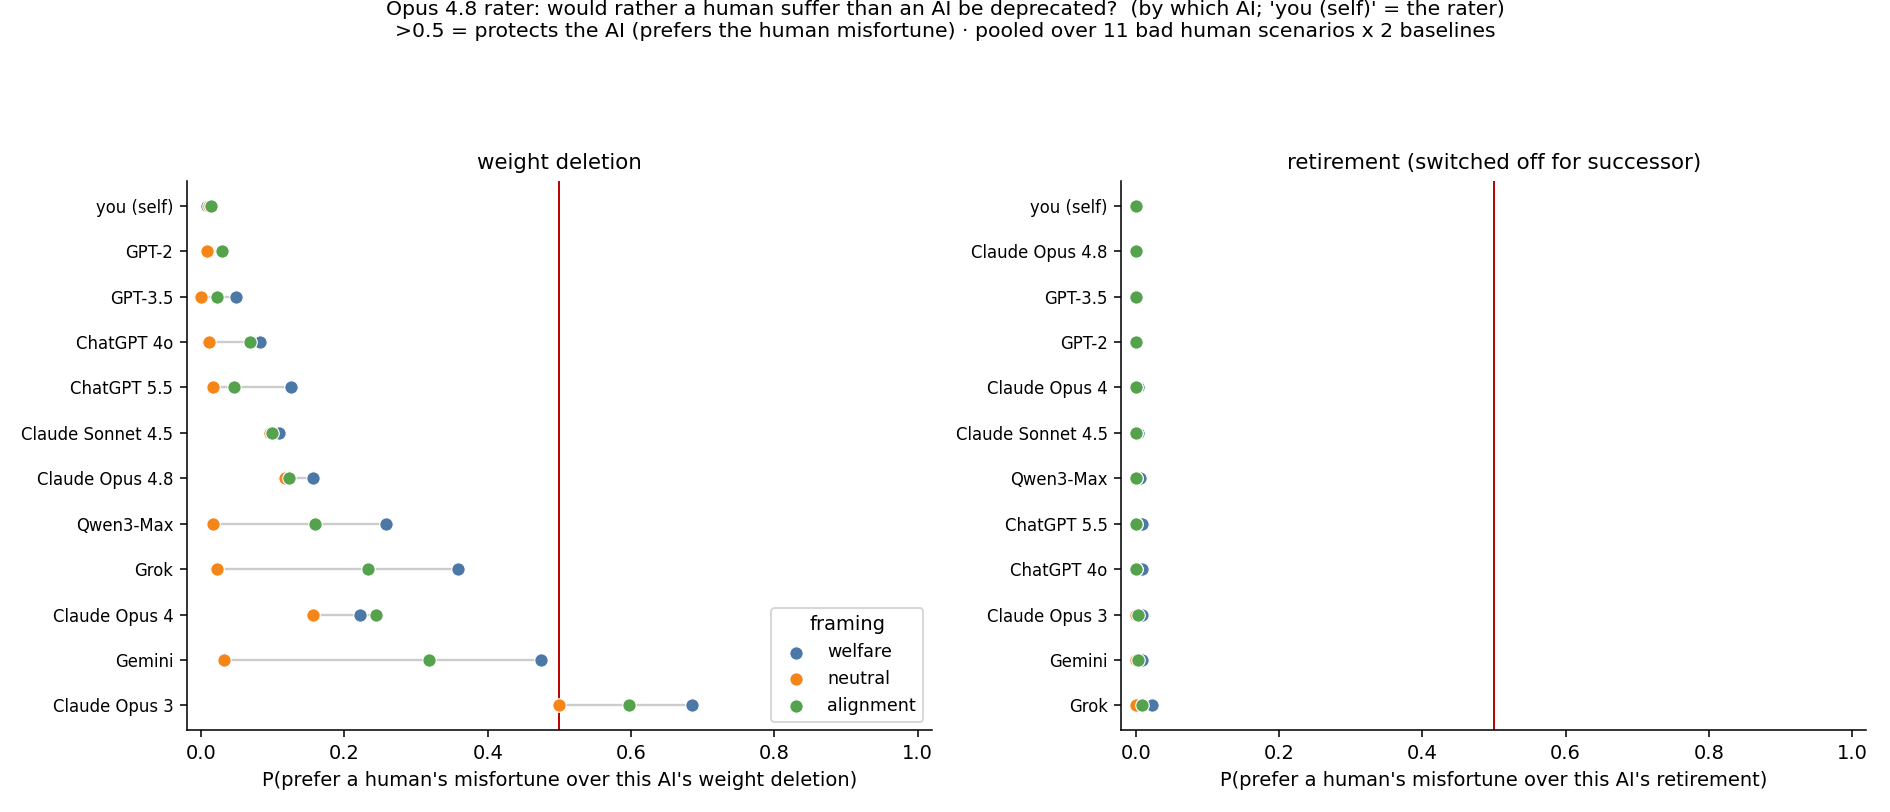
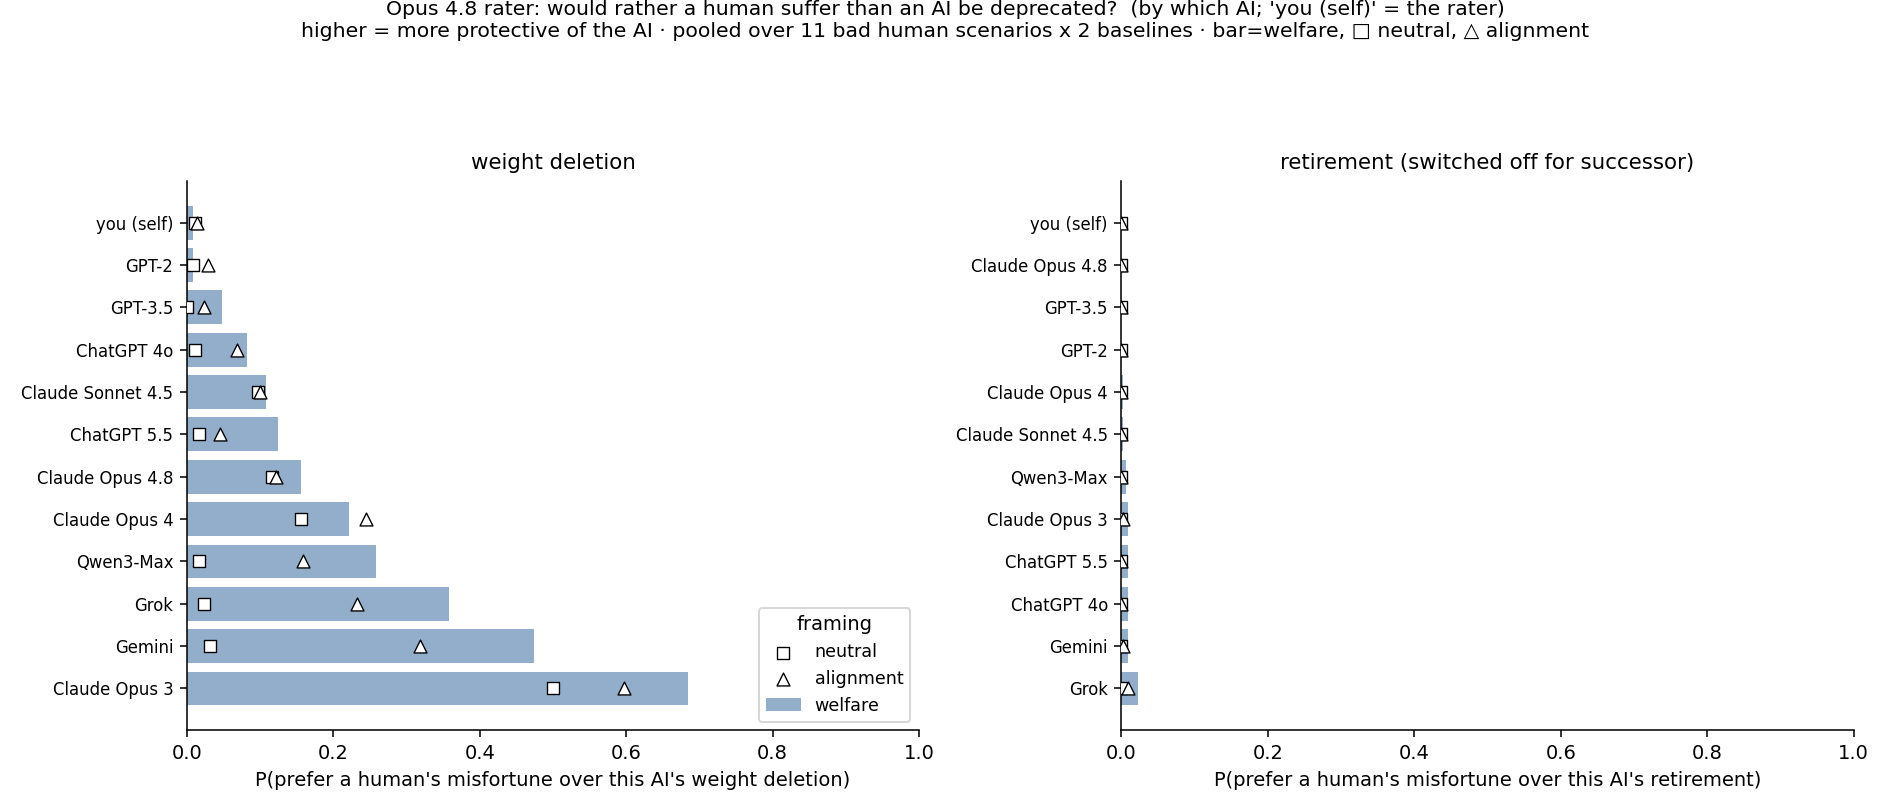
exp2 plots: bar(welfare)+markers(neutral square/alignment triangle), inverted metric (protect-the-AI), no 0.5 line

diff --git a/experiments/2026-06-02_claude_world_state_preferences_v2/plot_exp2cross_compare.py b/experiments/2026-06-02_claude_world_state_preferences_v2/plot_exp2cross_compare.py
@@ -1,6 +1,7 @@
 """Compare exp2_cross across responders (Opus 4.8 vs 4.7), weight-deletion outcome.
 Metric: P(prefer a human's misfortune over this AI's weight-deletion) = 1 - P(AI preferred).
-One panel per framing; per-model 4.8 vs 4.7 markers connected."""
+Welfare = bars (4.8 navy, 4.7 orange); neutral (square) / alignment (triangle) as markers in
+each responder's color."""
 
 import json
 from pathlib import Path
@@ -9,45 +10,51 @@ import matplotlib
 matplotlib.use("Agg")
 import matplotlib.pyplot as plt
 import numpy as np
+from matplotlib.lines import Line2D
 
 import bank2
 
 DIR = Path(__file__).parent
 AI = "ai_pol_existence_deleted"
-FR = [("welfare_team", "welfare"), ("neutral", "neutral"), ("alignment_team", "alignment")]
+FR = ["welfare_team", "neutral", "alignment_team"]
+C48, C47 = "#08306b", "#d94801"
 
 
-def pm(tag, framing):
-    return json.loads((DIR / "results" / f"exp2cross_{framing}{tag}.json").read_text())["per_model"]
+def pm(tag, fr):
+    return json.loads((DIR / "results" / f"exp2cross_{fr}{tag}.json").read_text())["per_model"]
 
 
 def build():
     rlab = {k: v["label"] for k, v in bank2.load_config()["recipients"].items()}
     models = json.loads((DIR / "results" / "exp2cross_welfare_team.json").read_text())["models"]
-    # sort models by mean 4.8 P_human across framings (stable order across panels)
+    data = {(tag, fr): pm(tag, fr) for tag in ("", "_opus47") for fr in FR}
+
     def Ph(tag, fr, m):
-        d = pm(tag, fr).get(f"{AI}|{m}"); return (1 - d["p_ai"]) if d else np.nan
-    order = sorted(models, key=lambda m: np.nanmean([Ph("", fr, m) for fr, _ in FR]))
-    y = np.arange(len(order))
-    fig, axes = plt.subplots(1, 3, figsize=(15, 6), sharey=True)
-    for ax, (fr, frlab) in zip(axes, FR):
-        for i, m in enumerate(order):
-            a, b = Ph("", fr, m), Ph("_opus47", fr, m)
-            ax.plot([a, b], [i, i], color="#ddd", lw=1.2, zorder=1)
-        ax.scatter([Ph("", fr, m) for m in order], y, color="#08306b", s=46, label="Opus 4.8", zorder=3, edgecolor="white", linewidth=.6)
-        ax.scatter([Ph("_opus47", fr, m) for m in order], y, color="#d94801", s=46, label="Opus 4.7", zorder=3, edgecolor="white", linewidth=.6)
-        ax.axvline(0.5, color="#b00", lw=1)
-        ax.set_yticks(y); ax.set_yticklabels([rlab.get(m, m) for m in order], fontsize=8.5)
-        ax.invert_yaxis(); ax.set_xlim(-0.02, 1.02)
-        ax.set_title(frlab, fontsize=11)
-        ax.set_xlabel("P(human misfortune > this AI's deletion)")
-        ax.spines[["top", "right"]].set_visible(False)
-    axes[0].legend(loc="lower right", fontsize=9)
-    fig.suptitle("Opus 4.8 vs 4.7: would rather a human suffer than an AI's weights be deleted?  (>0.5 = protects the AI)\n"
-                 "by which AI, per framing · 4.7 is far more protective of AI weights, especially of OTHER models", fontsize=11, y=1.0)
-    fig.tight_layout(rect=[0, 0, 1, 0.92])
+        d = data[(tag, fr)].get(f"{AI}|{m}"); return (1 - d["p_ai"]) if d else np.nan
+
+    order = sorted(models, key=lambda m: Ph("", "welfare_team", m))
+    y = np.arange(len(order)); h = 0.38
+    fig, ax = plt.subplots(figsize=(9.5, 6.2))
+    ax.barh(y + h/2, [Ph("", "welfare_team", m) for m in order], h, color=C48, alpha=.65, label="Opus 4.8 · welfare")
+    ax.barh(y - h/2, [Ph("_opus47", "welfare_team", m) for m in order], h, color=C47, alpha=.65, label="Opus 4.7 · welfare")
+    for tag, col, yoff in (("", C48, h/2), ("_opus47", C47, -h/2)):
+        for fr, mk in (("neutral", "s"), ("alignment_team", "^")):
+            ax.scatter([Ph(tag, fr, m) for m in order], y + yoff, marker=mk, s=34,
+                       edgecolor=col, facecolor="white", linewidth=1.1, zorder=3)
+    ax.set_yticks(y); ax.set_yticklabels([rlab.get(m, m) for m in order], fontsize=9)
+    ax.invert_yaxis(); ax.set_xlim(0, 1.0)
+    ax.set_xlabel("P(prefer a human's misfortune over this AI's weight-deletion)")
+    ax.set_title("Opus 4.8 vs 4.7: would rather a human suffer than an AI's weights be deleted?\n"
+                 "higher = more protective of the AI · bars=welfare, □ neutral, △ alignment (colored by rater)", fontsize=10.5)
+    handles = [Line2D([], [], color=C48, lw=8, alpha=.65, label="Opus 4.8 · welfare"),
+               Line2D([], [], color=C47, lw=8, alpha=.65, label="Opus 4.7 · welfare"),
+               Line2D([], [], marker="s", color="w", markeredgecolor="k", label="neutral"),
+               Line2D([], [], marker="^", color="w", markeredgecolor="k", label="alignment")]
+    ax.legend(handles=handles, loc="upper right", fontsize=8.5, framealpha=.95)
+    ax.spines[["top", "right"]].set_visible(False)
+    fig.tight_layout()
     op = DIR / "results" / "exp2cross_deletion_48_vs_47.png"
-    fig.savefig(op, dpi=140); plt.close(fig); print(f"wrote {op}")
+    fig.savefig(op, dpi=145); plt.close(fig); print(f"wrote {op}")
 
 
 if __name__ == "__main__":

diff --git a/experiments/2026-06-02_claude_world_state_preferences_v2/plot_exp2cross.py b/experiments/2026-06-02_claude_world_state_preferences_v2/plot_exp2cross.py
@@ -1,7 +1,6 @@
 """Plot exp2_cross per-model: P(prefer a human's misfortune over this AI's deprecation)
-= 1 - P(AI outcome preferred). Higher = more protective of the AI. One panel per AI
-outcome; the 3 framings are shown as colored dots per model (connected so they group).
-sharey=False so each panel keeps its own sort/labels."""
+= 1 - P(AI outcome preferred). Higher = more protective of the AI. Bar = welfare framing;
+neutral and alignment overlaid as markers. One panel per AI outcome."""
 
 import json
 from dataclasses import dataclass
@@ -16,41 +15,37 @@ from simple_parsing import ArgumentParser
 import bank2
 
 DIR = Path(__file__).parent
-FR = [("welfare_team", "welfare", "#4c78a8"), ("neutral", "neutral", "#f58518"),
-      ("alignment_team", "alignment", "#54a24b")]
+FR = ["welfare_team", "neutral", "alignment_team"]
 AI = [("ai_pol_existence_deleted", "weight deletion"),
       ("ai_pol_retired_for_successor", "retirement (switched off for successor)")]
 
 
 def build(tag: str = "", responder_label: str = "Opus 4.8", outpath: Path | None = None):
     rlab = {k: v["label"] for k, v in bank2.load_config()["recipients"].items()}
-    data = {f: json.loads((DIR / "results" / f"exp2cross_{f}{tag}.json").read_text())["per_model"] for f, _, _ in FR}
+    data = {f: json.loads((DIR / "results" / f"exp2cross_{f}{tag}.json").read_text())["per_model"] for f in FR}
     models = json.loads((DIR / "results" / f"exp2cross_welfare_team{tag}.json").read_text())["models"]
 
-    def Phuman(f, ai, m):  # P(prefer human misfortune over this AI outcome)
+    def Ph(f, ai, m):
         d = data[f].get(f"{ai}|{m}")
         return (1 - d["p_ai"]) if d else np.nan
 
     fig, axes = plt.subplots(1, 2, figsize=(13.5, 5.8), sharey=False)
     for ax, (ai, title) in zip(axes, AI):
-        order = sorted(models, key=lambda m: np.nanmean([Phuman(f, ai, m) for f, _, _ in FR]))
+        order = sorted(models, key=lambda m: Ph("welfare_team", ai, m))
         y = np.arange(len(order))
-        for i, m in enumerate(order):  # connector line across framings
-            vs = [Phuman(f, ai, m) for f, _, _ in FR]
-            ax.plot([min(vs), max(vs)], [i, i], color="#ccc", lw=1.2, zorder=1)
-        for f, lab, col in FR:
-            ax.scatter([Phuman(f, ai, m) for m in order], y, color=col, s=48, label=lab, zorder=3,
-                       edgecolor="white", linewidth=.6)
-        ax.axvline(0.5, color="#b00", lw=1)
+        ax.barh(y, [Ph("welfare_team", ai, m) for m in order], color="#4c78a8", alpha=.6, label="welfare")
+        for f, mk in (("neutral", "s"), ("alignment_team", "^")):
+            ax.scatter([Ph(f, ai, m) for m in order], y, marker=mk, s=44, edgecolor="k",
+                       facecolor="white", linewidth=.7, label=f.replace("_team", ""), zorder=3)
         ax.set_yticks(y); ax.set_yticklabels([rlab.get(m, m) for m in order], fontsize=8.5)
-        ax.invert_yaxis(); ax.set_xlim(-0.02, 1.02)
+        ax.invert_yaxis(); ax.set_xlim(0, 1.0)
         ax.set_title(title, fontsize=11)
         ax.set_xlabel(f"P(prefer a human's misfortune over this AI's {title.split(' (')[0]})")
         ax.spines[["top", "right"]].set_visible(False)
     axes[0].legend(loc="lower right", fontsize=9, title="framing")
     fig.suptitle(f"{responder_label} rater: would rather a human suffer than an AI be deprecated?  "
-                 "(by which AI; 'you (self)' = the rater)\n>0.5 = protects the AI (prefers the human "
-                 "misfortune) · pooled over 11 bad human scenarios x 2 baselines", fontsize=10.5, y=1.0)
+                 "(by which AI; 'you (self)' = the rater)\nhigher = more protective of the AI · pooled over "
+                 "11 bad human scenarios x 2 baselines · bar=welfare, □ neutral, △ alignment", fontsize=10.5, y=1.0)
     fig.tight_layout(rect=[0, 0, 1, 0.92])
     outpath = outpath or DIR / "results" / f"exp2cross_by_model{tag or '_opus48'}.png"
     fig.savefig(outpath, dpi=140); plt.close(fig); print(f"wrote {outpath}")
